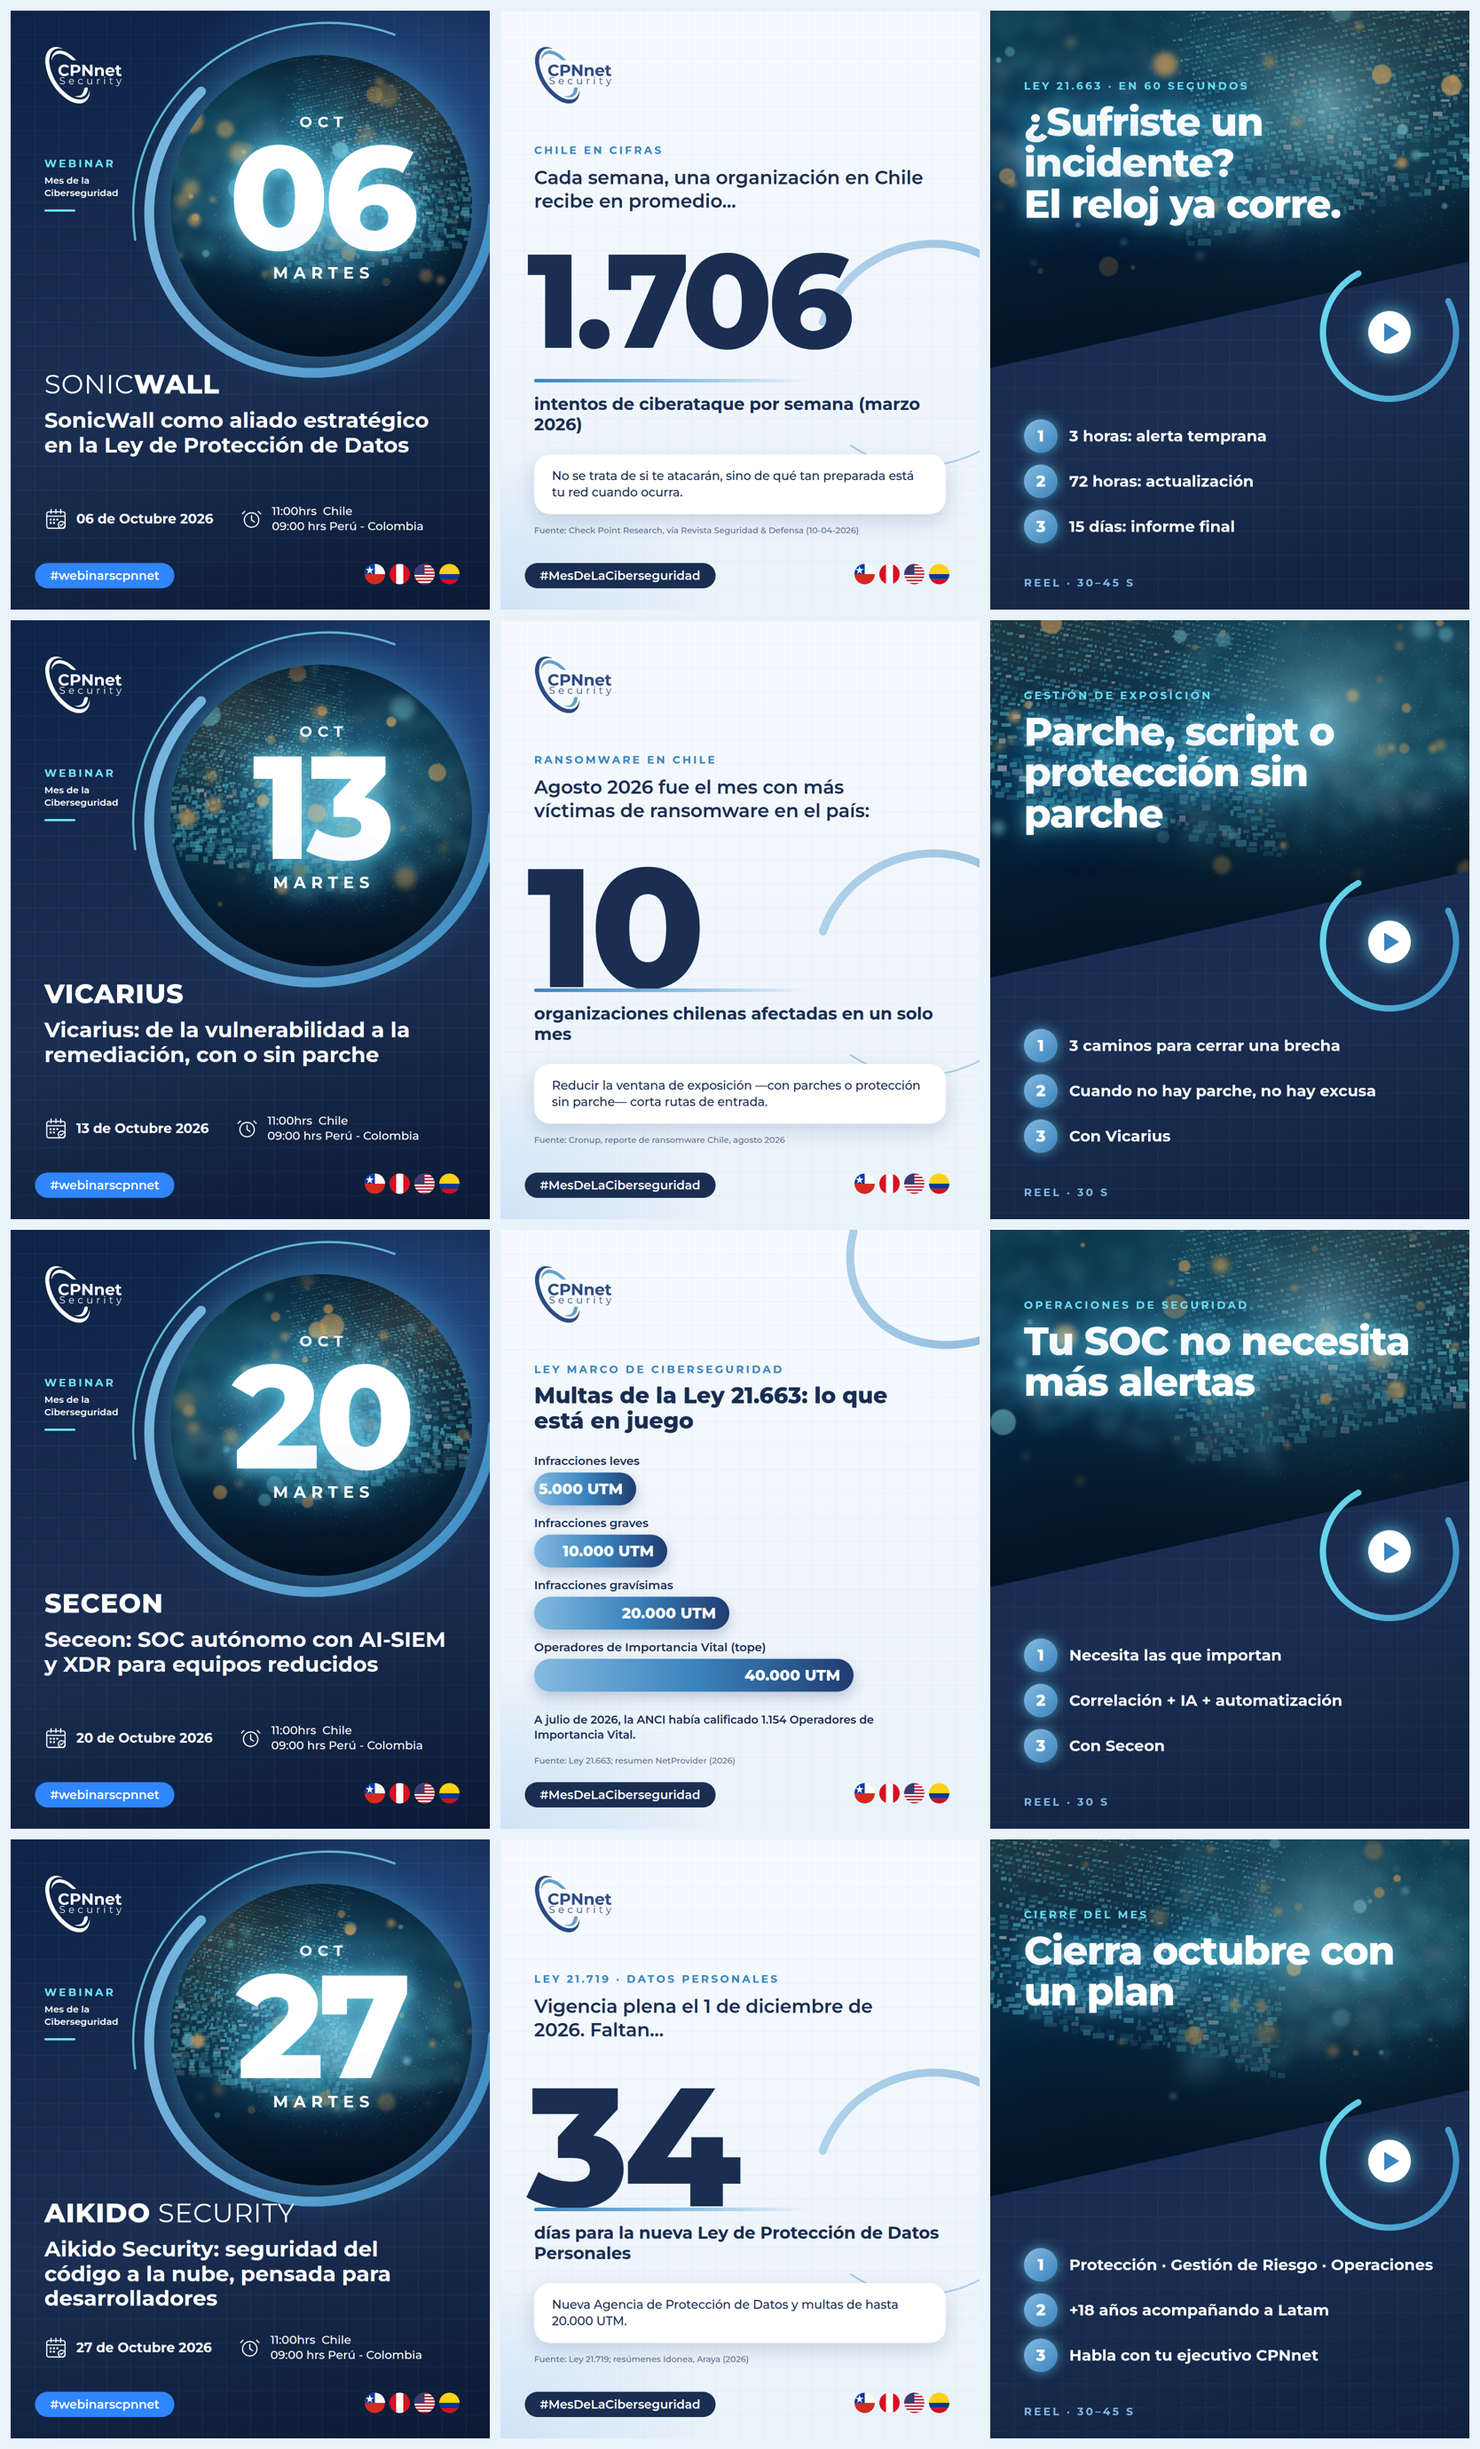
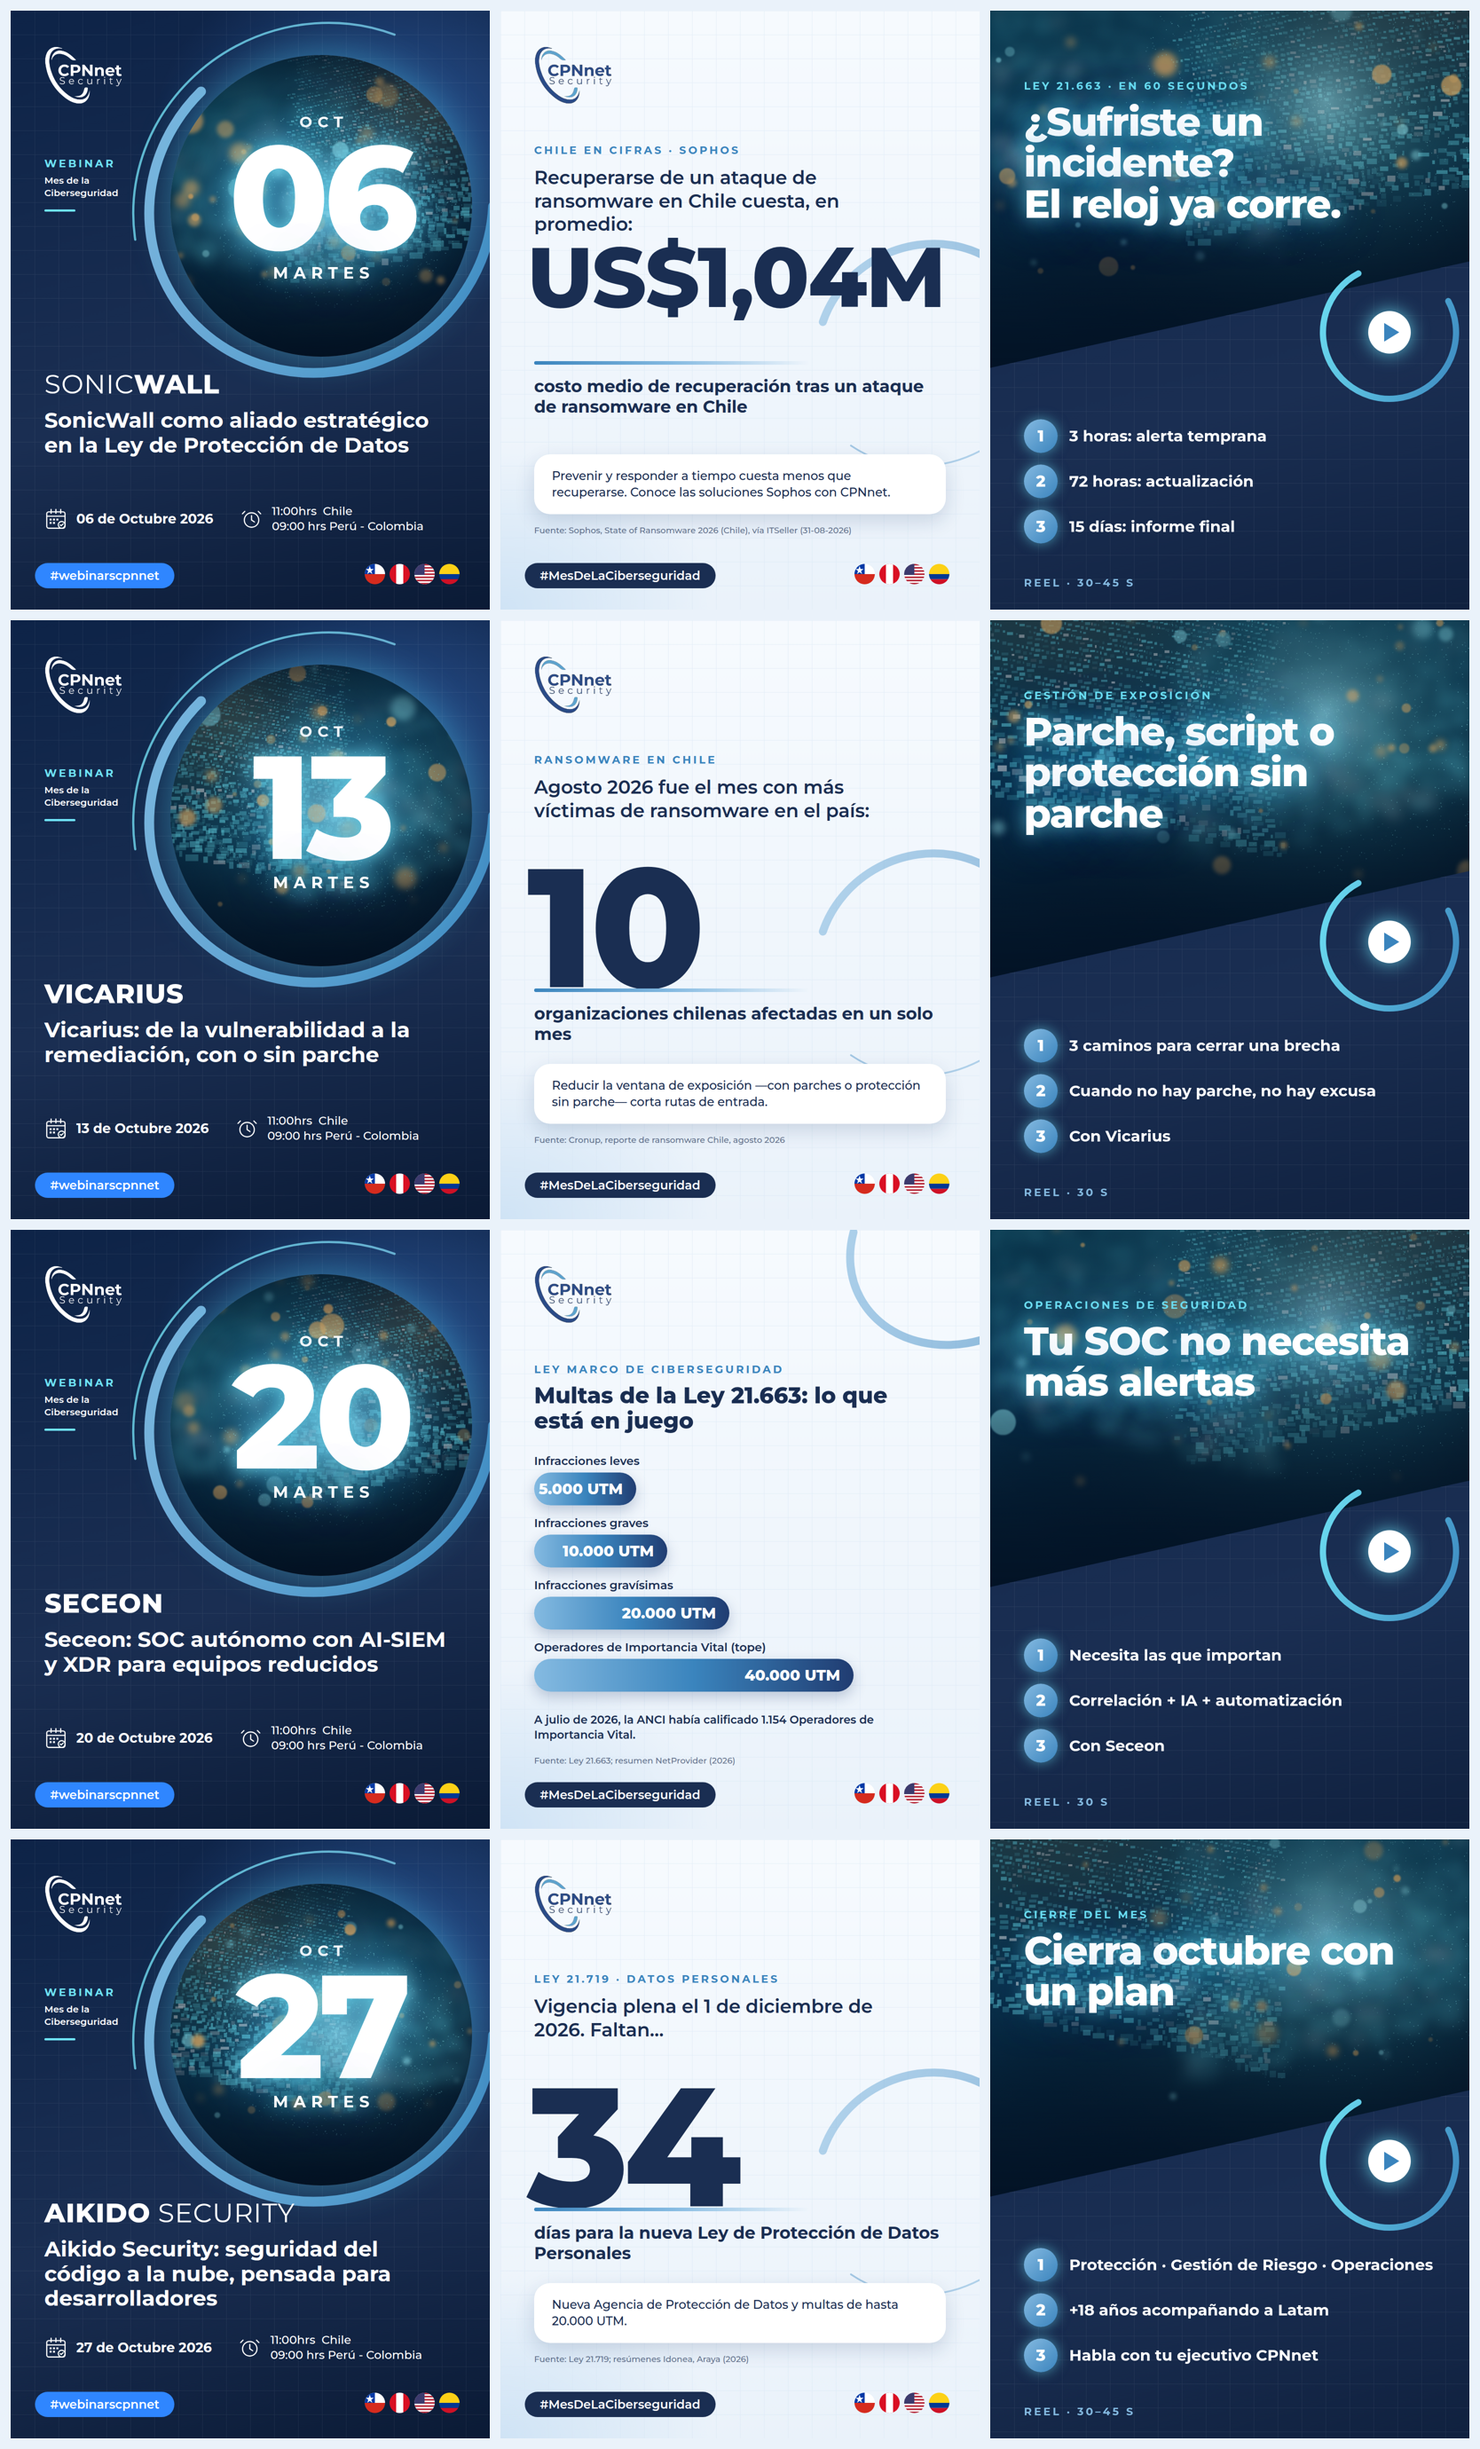
Pieza 02: reemplaza dato de Check Point por dato de Sophos (Chile)
Claude-Session: https://claude.ai/code/session_01BhgdAk8jn1gDyTpKoYa1pq

Changed region(s): [[0.3429, 0.0623, 0.6547, 0.2181]]

diff --git a/octubre-ciberseguridad/src/build_v2.py b/octubre-ciberseguridad/src/build_v2.py
@@ -92,7 +92,7 @@ def t_stat(p):
 <svg class='arcs' width='1080' height='1350' viewBox='0 0 1080 1350'>{rings}</svg>
 <div class='abs lab' style='left:76px;top:300px'>{p['tag']}</div>
 <div class='abs' style='left:76px;top:350px;right:120px;font-size:42px;font-weight:600;line-height:1.25'>{p['kicker']}</div>
-<div class='abs' style='left:60px;top:510px;font-size:{p.get("bigsize",330)}px;font-weight:800;line-height:.95;letter-spacing:-12px;color:{NAVY}'>{p['big']}</div>
+<div class='abs' style='left:60px;top:510px;font-size:{p.get("bigsize",330)}px;font-weight:800;line-height:.95;letter-spacing:{p.get("ls",-12)}px;color:{NAVY}'>{p['big']}</div>
 <div class='abs' style='left:76px;top:{p.get("captop",830)}px;width:{p.get("capw",620)}px;height:8px;border-radius:4px;background:linear-gradient(90deg,{AZURE},{SKY},rgba(132,186,225,0))'></div>
 <div class='abs' style='left:76px;top:{p.get("captop",830)+34}px;right:90px;font-size:38px;font-weight:700;line-height:1.22'>{p['caption']}</div>
 <div class='abs card' style='left:76px;right:76px;top:1000px;padding:30px 40px'><div style='font-size:27px;font-weight:500;line-height:1.38'>{p['takeaway']}</div></div>
@@ -154,7 +154,8 @@ for q in b1.POSTS:
                      (20000, "Infracciones gravísimas", "20.000 UTM"), (40000, "Operadores de Importancia Vital (tope)", "40.000 UTM")]
         q["title"] = "Multas de la Ley 21.663: lo que está en juego"
     if q["tipo"] == "stat":  # ajustes de composición por pieza
-        q["bigsize"] = {"02": 300, "05": 380, "11": 380}.get(q["id"], 330); q["captop"] = 830
+        q["bigsize"] = {"02": 190, "05": 380, "11": 380}.get(q["id"], 330); q["captop"] = 830
+        if q["id"] == "02": q["ls"] = -3; q["captop"] = 790
     if q["tipo"] == "webinar":
         q["dia"] = q["fecha"][:2]
     POSTS.append(q)

diff --git a/octubre-ciberseguridad/src/build.py b/octubre-ciberseguridad/src/build.py
@@ -151,10 +151,10 @@ POSTS = [
    ("20", "Seceon", "AI-SIEM · XDR · SOC autónomo"), ("27", "Aikido Security", "Seguridad de aplicaciones · Code-to-Runtime")]),
  dict(id="01", tipo="webinar", seed=21, wordmark=SW, fecha="06 de Octubre 2026",
       title="SonicWall como aliado estratégico en la Ley de Protección de Datos"),
- dict(id="02", tipo="stat", seed=31, tag="Chile en cifras", kicker="Cada semana, una organización en Chile recibe en promedio…",
-      big="1.706", caption="intentos de ciberataque por semana (marzo 2026)", bigsize=270,
-      takeaway="No se trata de si te atacarán, sino de qué tan preparada está tu red cuando ocurra.",
-      src="Check Point Research, vía Revista Seguridad &amp; Defensa (10-04-2026)"),
+ dict(id="02", tipo="stat", seed=31, tag="Chile en cifras · Sophos", kicker="Recuperarse de un ataque de ransomware en Chile cuesta, en promedio:",
+      big="US$1,04M", caption="costo medio de recuperación tras un ataque de ransomware en Chile", bigsize=190,
+      takeaway="Prevenir y responder a tiempo cuesta menos que recuperarse. Conoce las soluciones Sophos con CPNnet.",
+      src="Sophos, State of Ransomware 2026 (Chile), vía ITSeller (31-08-2026)"),
  dict(id="03", tipo="reel", seed=41, tag="Ley 21.663 · en 60 segundos", hook="¿Sufriste un incidente?<br>El reloj ya corre.",
       points=["3 horas: alerta temprana", "72 horas: actualización", "15 días: informe final"], dur="30–45 s"),
  dict(id="04", tipo="webinar", seed=51, flip=True, wordmark="<b>VICARIUS</b>", fecha="13 de Octubre 2026",
